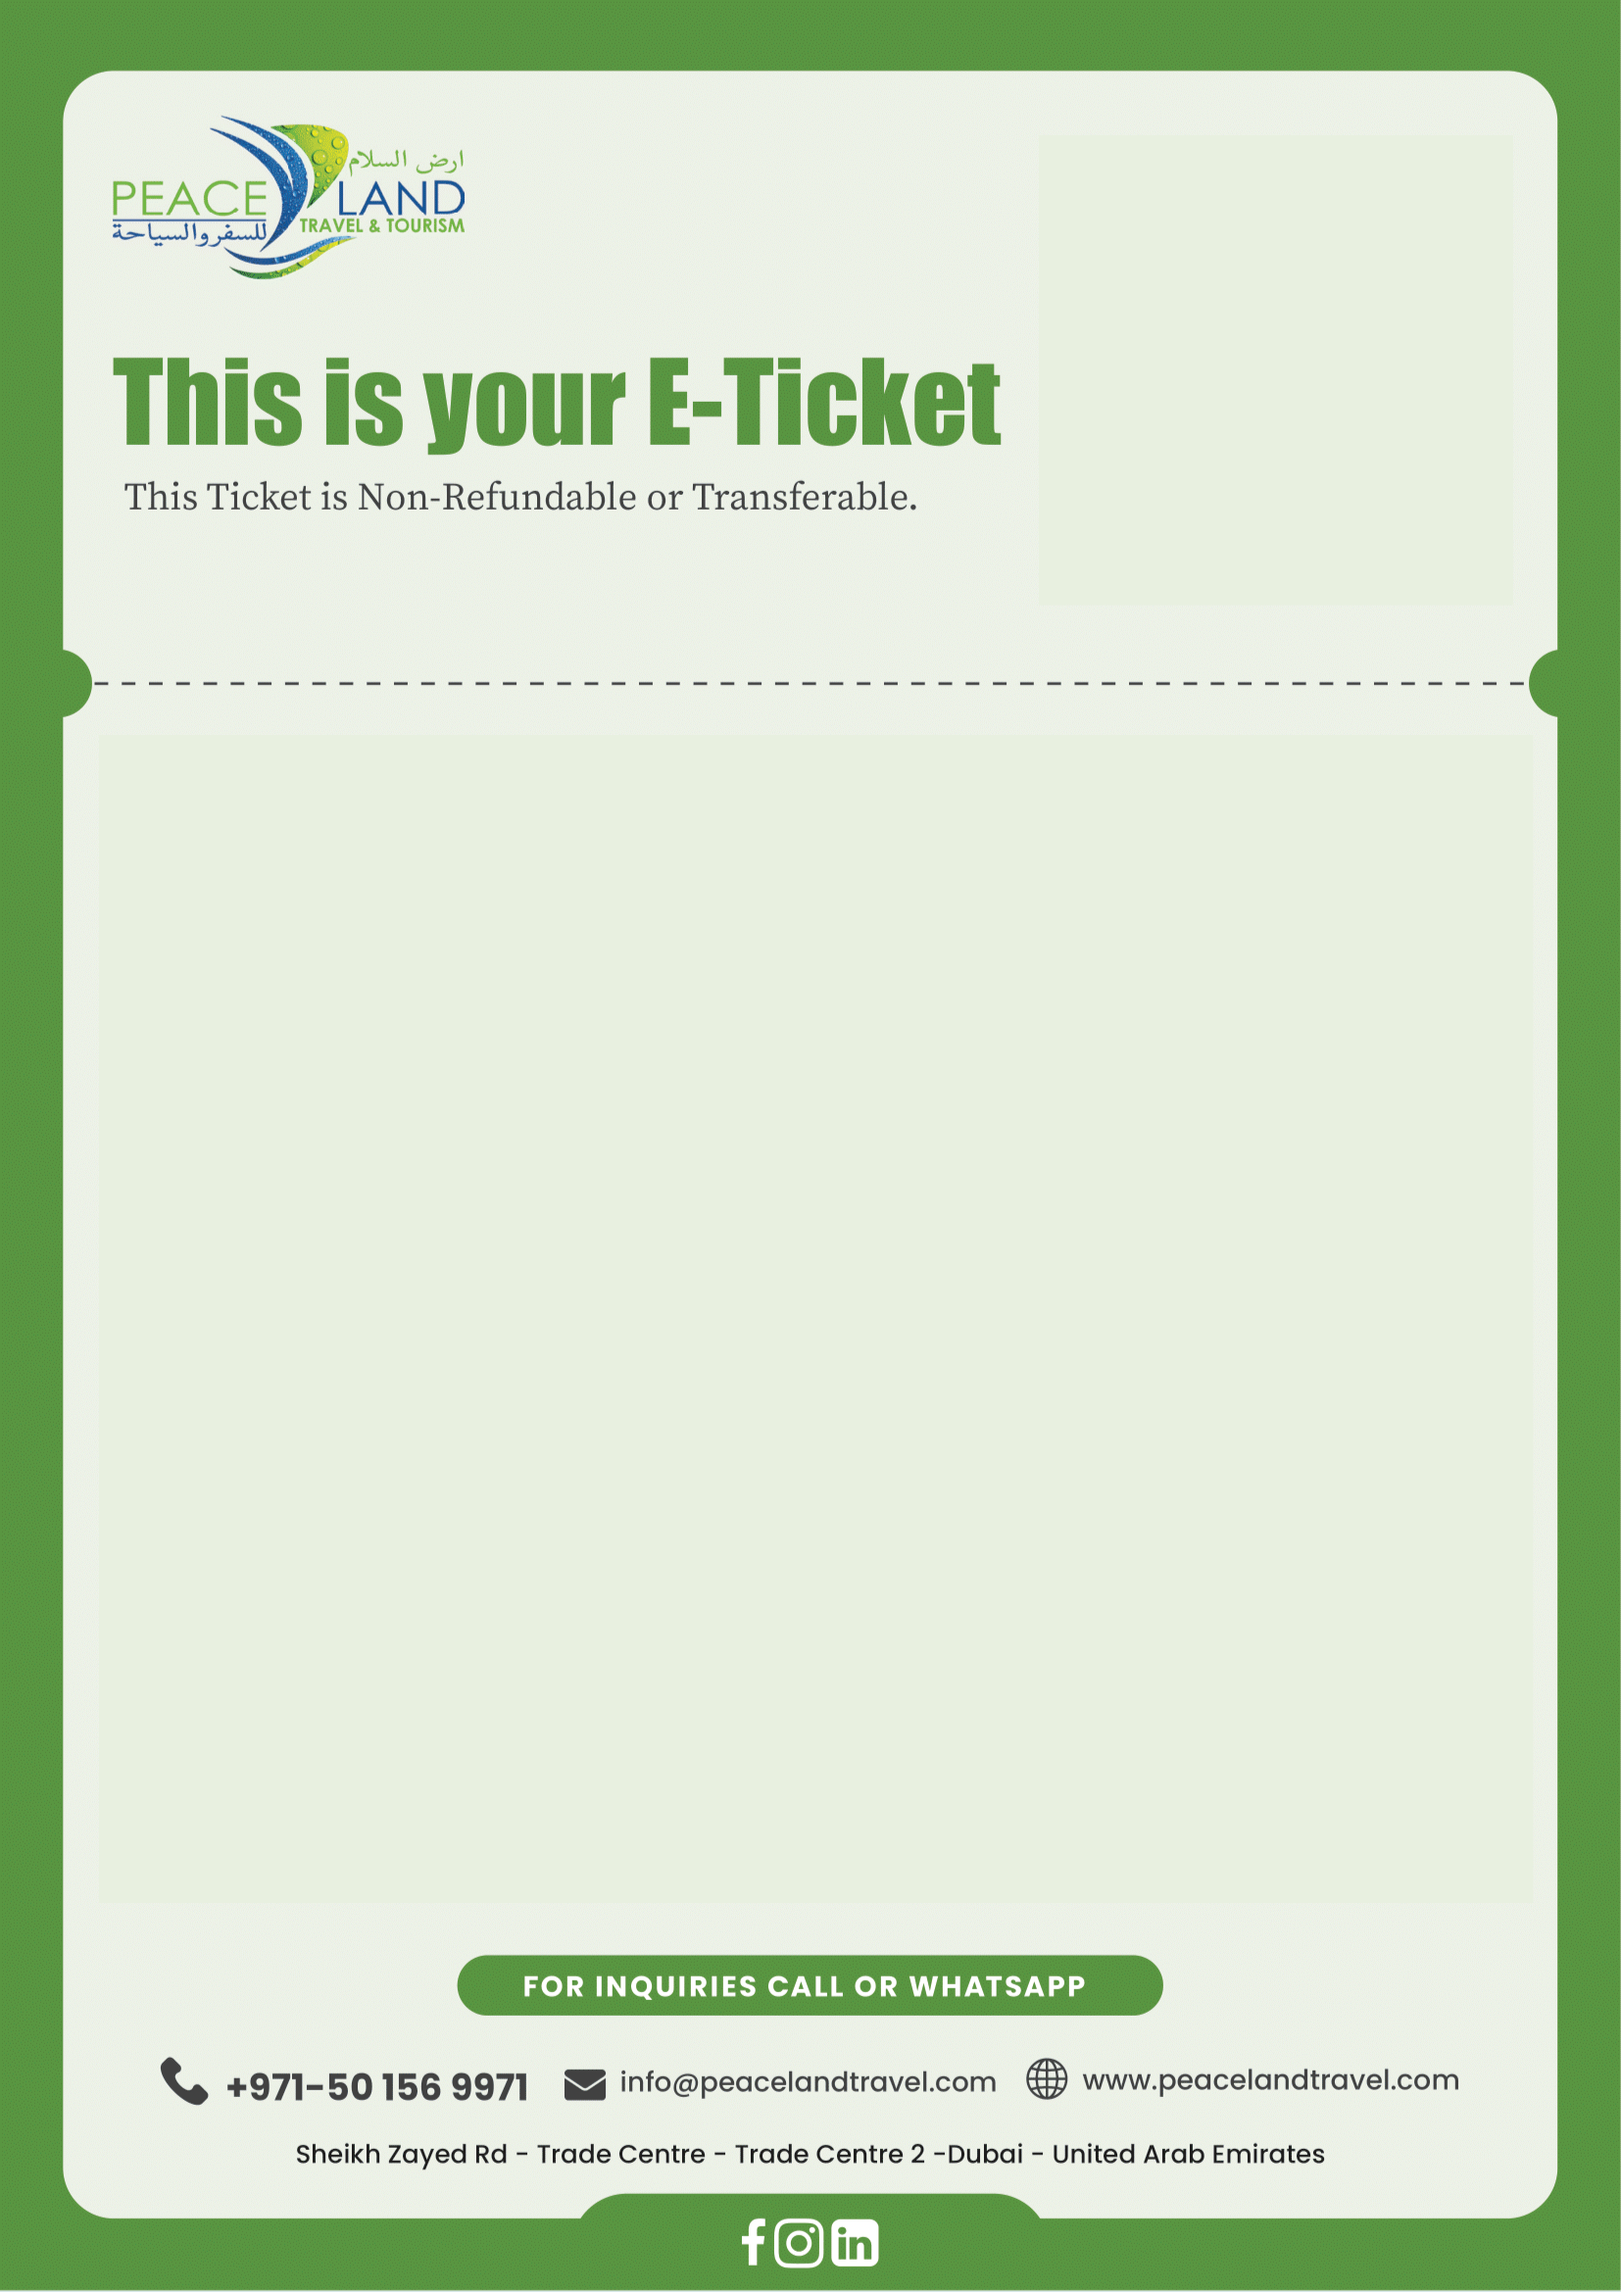
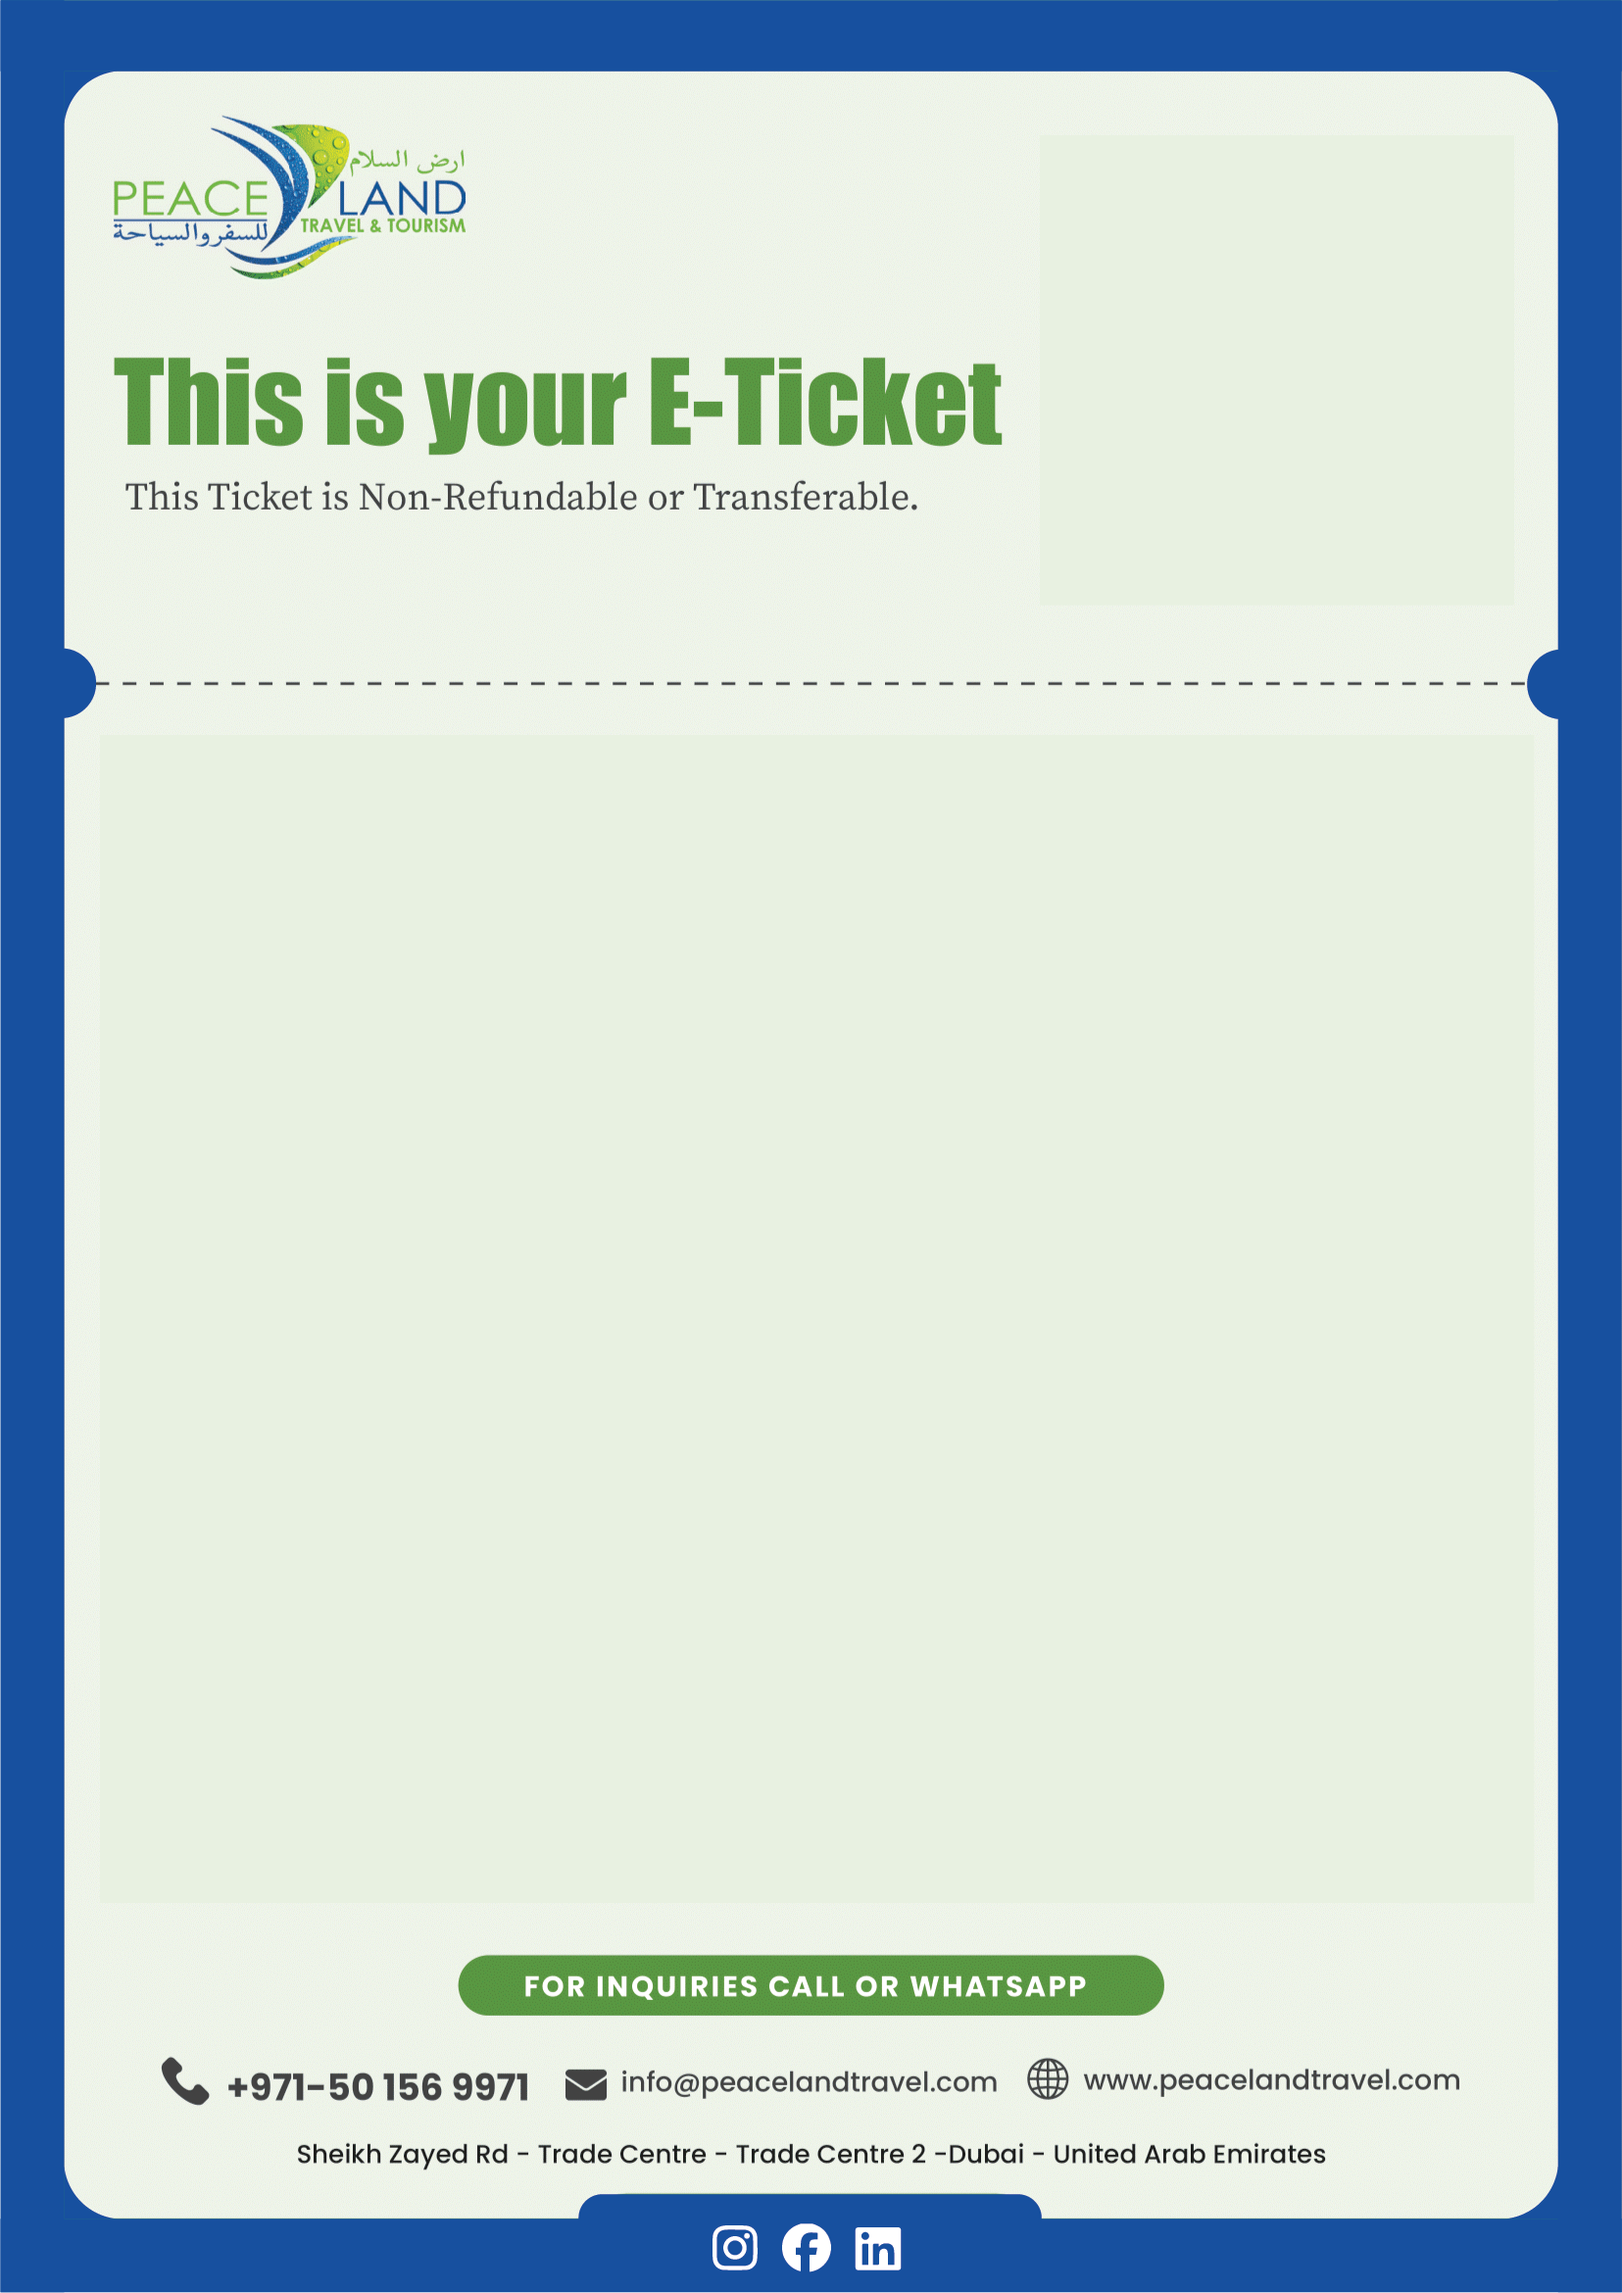
update

diff --git a/styles/main.scss b/styles/main.scss
@@ -530,28 +530,25 @@ body > div:nth-child(6) > div > div.ant-modal-wrap > div > div.ant-modal-content
   text-align: center;
   font-weight: 400;
   color: rgb(79, 78, 78);
-}
-
-
+};
 
 .filter{
   -webkit-filter: contrast(10%);
   -webkit-filter: saturate(1.5);
-}
+};
+
 .filter-2{
   -webkit-filter: contrast(99%);
   -webkit-filter: saturate(1.7);
-}
+};
 
-.overlay
-{
+.overlay{
   position: absolute;
   left: 0px;
   bottom: 0px;
 }
 
-.overlay-text
-{
+.overlay-text{
   position: absolute;
   left: 10px;
   bottom: 10px;
@@ -586,8 +583,6 @@ body > div:nth-child(6) > div > div.ant-modal-wrap > div > div.ant-modal-content
   -moz-box-shadow: 10px 10px 13px -5px rgba(0,0,0,0.75);
 }
 
-
-
 // @media screen and (min-width: 1390px) {
 //   .mySwiper{
 //     padding-left: 30px!important;
@@ -602,51 +597,55 @@ body > div:nth-child(6) > div > div.ant-modal-wrap > div > div.ant-modal-content
 .book-home-btn{
   background-color: red;
   color: white;
-}
+};
 
 .hero-txt-1{
   font-size: 80px;
   font-weight: 700;
   text-shadow: 11px 7px 6px rgba(0,0,0,0.6);
-}
+};
 
 .hero-txt-2{
   font-size: 70px;
   font-weight: 600;
   text-shadow: 5px 5px 6px rgba(0,0,0,0.6);
-}
+};
 
 .hero-icons{
   transition-duration: 200ms;
   cursor: pointer;
   height: 40%;
-}
+};
 
 .hero-icons:hover{
   transition-duration: 200ms;
   height: 45%;
   position: relative;
-}
+};
 
 @media screen and (min-width: 1100px) {
   .hero-icons-imgs{
     height: 150px !important;
-  }
-  .top-text{ top:5vh; }
+  };
+  .top-text{
+    top:5vh;
+  };
   .hero-txt-1{
     font-size: 70px;
-  }
-}
+  };
+};
 
 @media screen and (min-width: 1250px) {
   .hero-icons-imgs{
     height: 150px !important;
   }
-  .top-text{ top:5vh; }
+  .top-text{
+    top:5vh;
+  };
   .hero-txt-1{
     font-size: 80px;
-  }
-}
+  };
+};
 
 @media screen and (min-width: 1499px) {
   .top-text{ top:7vh; }
@@ -998,6 +997,7 @@ div.react-datepicker-wrapper > div > input{
 .row-hover:hover{
   background-color: rgb(224, 224, 224);
 }
+
 .row-selected{
   background-color: rgb(224, 224, 224);
 }
@@ -1070,7 +1070,7 @@ div.react-datepicker-wrapper > div > input{
 }
 
 .left-ticket-box {
-  background-color:#599742; 
+  background-color:#194e9e; 
   border-radius:25px;
   height:430px;
   padding-left: 20px;

diff --git a/Components/Layouts/Product/index.js b/Components/Layouts/Product/index.js
@@ -182,32 +182,32 @@ const Product = ({id, tourData}) => {
         <Row className={size.width>600?'info-bar-round':'info-bar'} >
           <Col md={2} className='text-center info-item'>
             <IoCalendarSharp className='info-icon' />
-            <div className='mt-2'>Availability<br/>{tour.availability}</div>
+            <div className='mt-2'>Availability<br/>{tour.availability||'(Any)'}</div>
             <Separator/>
           </Col>
           <Col md={2} className='text-center info-item'>
             <GiSandsOfTime className='info-icon' />
-            <div className='mt-2'>Duration<br/>{tour.duration}</div>
+            <div className='mt-2'>Duration<br/>{tour.duration||'(None)'}</div>
             <Separator/>
           </Col>
             <Col md={2} className='text-center info-item'>
               <IoLanguageOutline className='info-icon' color='white' />
-              <div className='mt-2'>Languages<br/>{tour.lang}</div>
+              <div className='mt-2'>Languages<br/>{tour.lang||'(Any)'}</div>
               <Separator/>
             </Col>
             <Col md={2} className='text-center info-item'>
               <BiLocationPlus className='info-icon' color='white' />
-              <div className='mt-2'>Reporting Point<br/>{tour.reporting}</div>
+              <div className='mt-2'>Reporting Point<br/>{tour.reporting||'(None)'}</div>
               <Separator/>
             </Col>
             <Col md={2} className='text-center info-item'>
               <RiExchangeFundsLine className='info-icon' color='white' />
-              <div className='mt-2'>Refund<br/>{tour.refund}</div>
+              <div className='mt-2'>Refund<br/>{tour.refund||'(None)'}</div>
               <Separator/>
             </Col>
             <Col md={2} className='text-center info-item'>
               <IoFlashSharp className='info-icon' color='white' />
-              <div className='mt-2'>Confirmation<br/>{tour.confirmation}</div>
+              <div className='mt-2'>Confirmation<br/>{tour.confirmation||'(None)'}</div>
             </Col>
         </Row>
         }

diff --git a/Components/Layouts/Product/Details.js b/Components/Layouts/Product/Details.js
@@ -14,31 +14,33 @@ const Details = ({tour, detail, BookCompTwo}) => {
   <>
     {detail &&
     <>
-    <div className='mt-4'>
-    {size.width>500 && 
-    <>
-      <div className={`fs-33 fw-700 blue-txt`}>{tour.title}</div>
-      <span>
-        <Rate disabled defaultValue={5} style={{fontSize:12, color:'orange'}} />
-      </span>
-      <span className ='mx-2 fs-12' style={{color:'grey'}}>
-        {"("}3 Reviews{")"}
-      </span> 
-      <IoLocationSharp size={15} style={{position:'relative', bottom:2}}/> 
-      {" "}{tour.destination?.toUpperCase()}, {tour.city}
-    </>
-    }
-    {size.width>600 && <>
-    <div className='mt-4' >
-      {BookCompTwo}
-    </div>
-    <hr/>
-    </>}
-    <h6 className='blue-txt mt-4'>Description</h6>
-    <p className='fs-16 grey-txt'>
-      {tour?.tour_detail.slice(0,940)} ...
-    </p>
-    </div>
+      <div className='mt-4'>
+      {size.width>500 && 
+      <>
+        <div className={`fs-33 fw-700 blue-txt`}>{tour.title}</div>
+        <span>
+          <Rate disabled defaultValue={5} style={{fontSize:12, color:'orange'}} />
+        </span>
+        <span className ='mx-2 fs-12' style={{color:'grey'}}>
+          {"("}3 Reviews{")"}
+        </span> 
+        <IoLocationSharp size={15} style={{position:'relative', bottom:2}}/> 
+        {" "}{tour.destination?.toUpperCase()}, {tour.city}
+      </>
+      }
+      {size.width>600 && 
+        <>
+          <div className='mt-4' >
+            {BookCompTwo}
+          </div>
+          <hr/>
+        </>
+      }
+        <h6 className='blue-txt mt-4'>Description</h6>
+        <p className='fs-16 grey-txt'>
+          {tour?.tour_detail}
+        </p>
+      </div>
     </>
     }
   </>

diff --git a/Components/Layouts/TicketPage/Ticket.js b/Components/Layouts/TicketPage/Ticket.js
@@ -22,14 +22,13 @@ const Ticket = ({fetchedTicket, i, transportList}) => {
         <div style={{height:1000, width:700}} className='mx-5 ticket-bg'>
             
             <QRCode style={{position:'relative', left:470, top:80}}
-                value={fetchedTicket.code}
-                scale={0.6} 
-                size={180}
-                level='Q'
-                viewBox={`0 0 200 200`}
+              value={fetchedTicket.code}
+              scale={0.6} 
+              size={180}
+              level='Q'
+              viewBox={`0 0 200 200`}
             />
             <div style={{position:'relative', left:470, top:85, width:180, textAlign:'center', fontSize:12}}><div>{fetchedTicket.code}</div></div>
-
             <div style={{position:'relative', left:60, top:150}}>
                 <Row className='mt-4'>
                     <Col style={{maxWidth:300}}>

diff --git a/Components/Layouts/Product/Images.js b/Components/Layouts/Product/Images.js
@@ -1,22 +1,21 @@
 // import React, { useEffect } from 'react';
-
 // import useWindowSize from '/functions/useWindowSize';
 
 // const Images = ({mainImage, setMainImage, tour, detail}) => {
-
+//
 //   const size = useWindowSize();
-
 //   useEffect(() => {
 //     setMainImage(tour.main_image);
 //     console.log(tour)
 //   }, [detail])
-  
+//
 //   return (
 //   <>
 //     <img className='my-3' src={mainImage} style={{borderRadius:size.width<500?10:8, width:'100%'}} alt="Tour" />
 //   </>
 //   )
 // }
+//
 // export default React.memo(Images)
 
 import React, { useEffect, useState } from 'react';

diff --git a/Components/Layouts/Package/Details.js b/Components/Layouts/Package/Details.js
@@ -35,16 +35,18 @@ const Details = ({tour, detail, BookCompTwo}) => {
       </div>
     </>
     }
-    {size.width>600 && <>
-    <div className='mt-3' >
-      {BookCompTwo}
-    </div>
-    <hr/>
-    </>}
+    {size.width>600 && 
+    <>
+      <div className='mt-3' >
+        {BookCompTwo}
+      </div>
+      <hr/>
+    </>
+    }
     <h6 className='blue-txt mt-4'>Description</h6>
-    <p className='fs-16 grey-txt'>
-      {tour?.tour_detail.slice(0,940)} ...
-    </p>
+      <p className='fs-16 grey-txt'>
+        {tour?.tour_detail}
+      </p>
     </div>
     </>
     }
